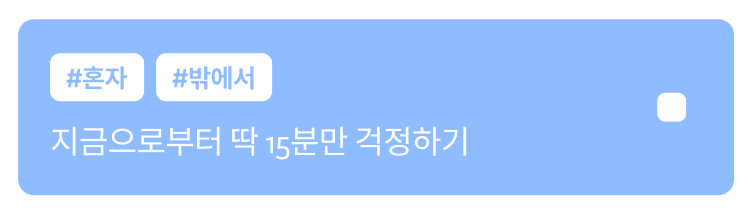
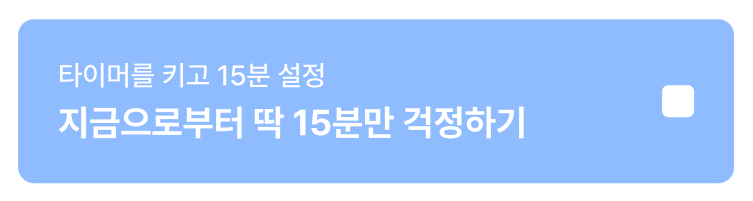
image : tutorial page 이미지 교체

diff --git a/src/tutorial/tutorial.css b/src/tutorial/tutorial.css
@@ -1,27 +1,12 @@
 @import url('https://fonts.googleapis.com/css2?family=Actor&display=swap');
 
-@media (max-width: 361px) {
-    .chatbox-area-abs{
-        font-size: 14px !important;
-    }
-  }
-@media (max-width: 400px) and (min-width:362px) {
-    .chatbox-area-abs{
-        font-size: 16px !important;
-    }
-  }
-@media (max-width: 500px) and (min-width:401px) {
-.chatbox-area-abs{
-    font-size: 17px !important;
-}
-}
 .actor-regular {
     font-family: "Actor", sans-serif;
     font-weight: 700;
     font-style: normal;
   }
   .tutorial-page .navbar-area{
-    bottom: 1.2% !important;
+    bottom: 0% !important;
   }
 /* 튜토리얼 페이지 */
 
@@ -179,12 +164,10 @@
 /* 단계별 chatbox */
 
 .chatbox-area .chat-0{
-    top: 25%;
+    top: 35%;
 }
 .chat-0 .pointer{
-    transform: rotate(45deg) skew(15deg, 15deg);
-    border-radius: 8px;
-	margin-top: -9.5em;
+    display: none !important;
 }
 .chatbox-area .chat-1{
     top: 25%;
@@ -330,4 +313,22 @@
     line-height: 1.75rem;
     border-radius: 10px;
     padding: 0.7rem 0;
+}
+
+/* 폰 기종 별 위치 조정 */
+
+@media (max-width: 361px) {
+    .chatbox-area-abs{
+        font-size: 14px !important;
+    }
+  }
+@media (max-width: 400px) and (min-width:362px) {
+    .chatbox-area-abs{
+        font-size: 16px !important;
+    }
+  }
+@media (max-width: 500px) and (min-width:401px) {
+.chatbox-area-abs{
+    font-size: 17px !important;
+}
 }
